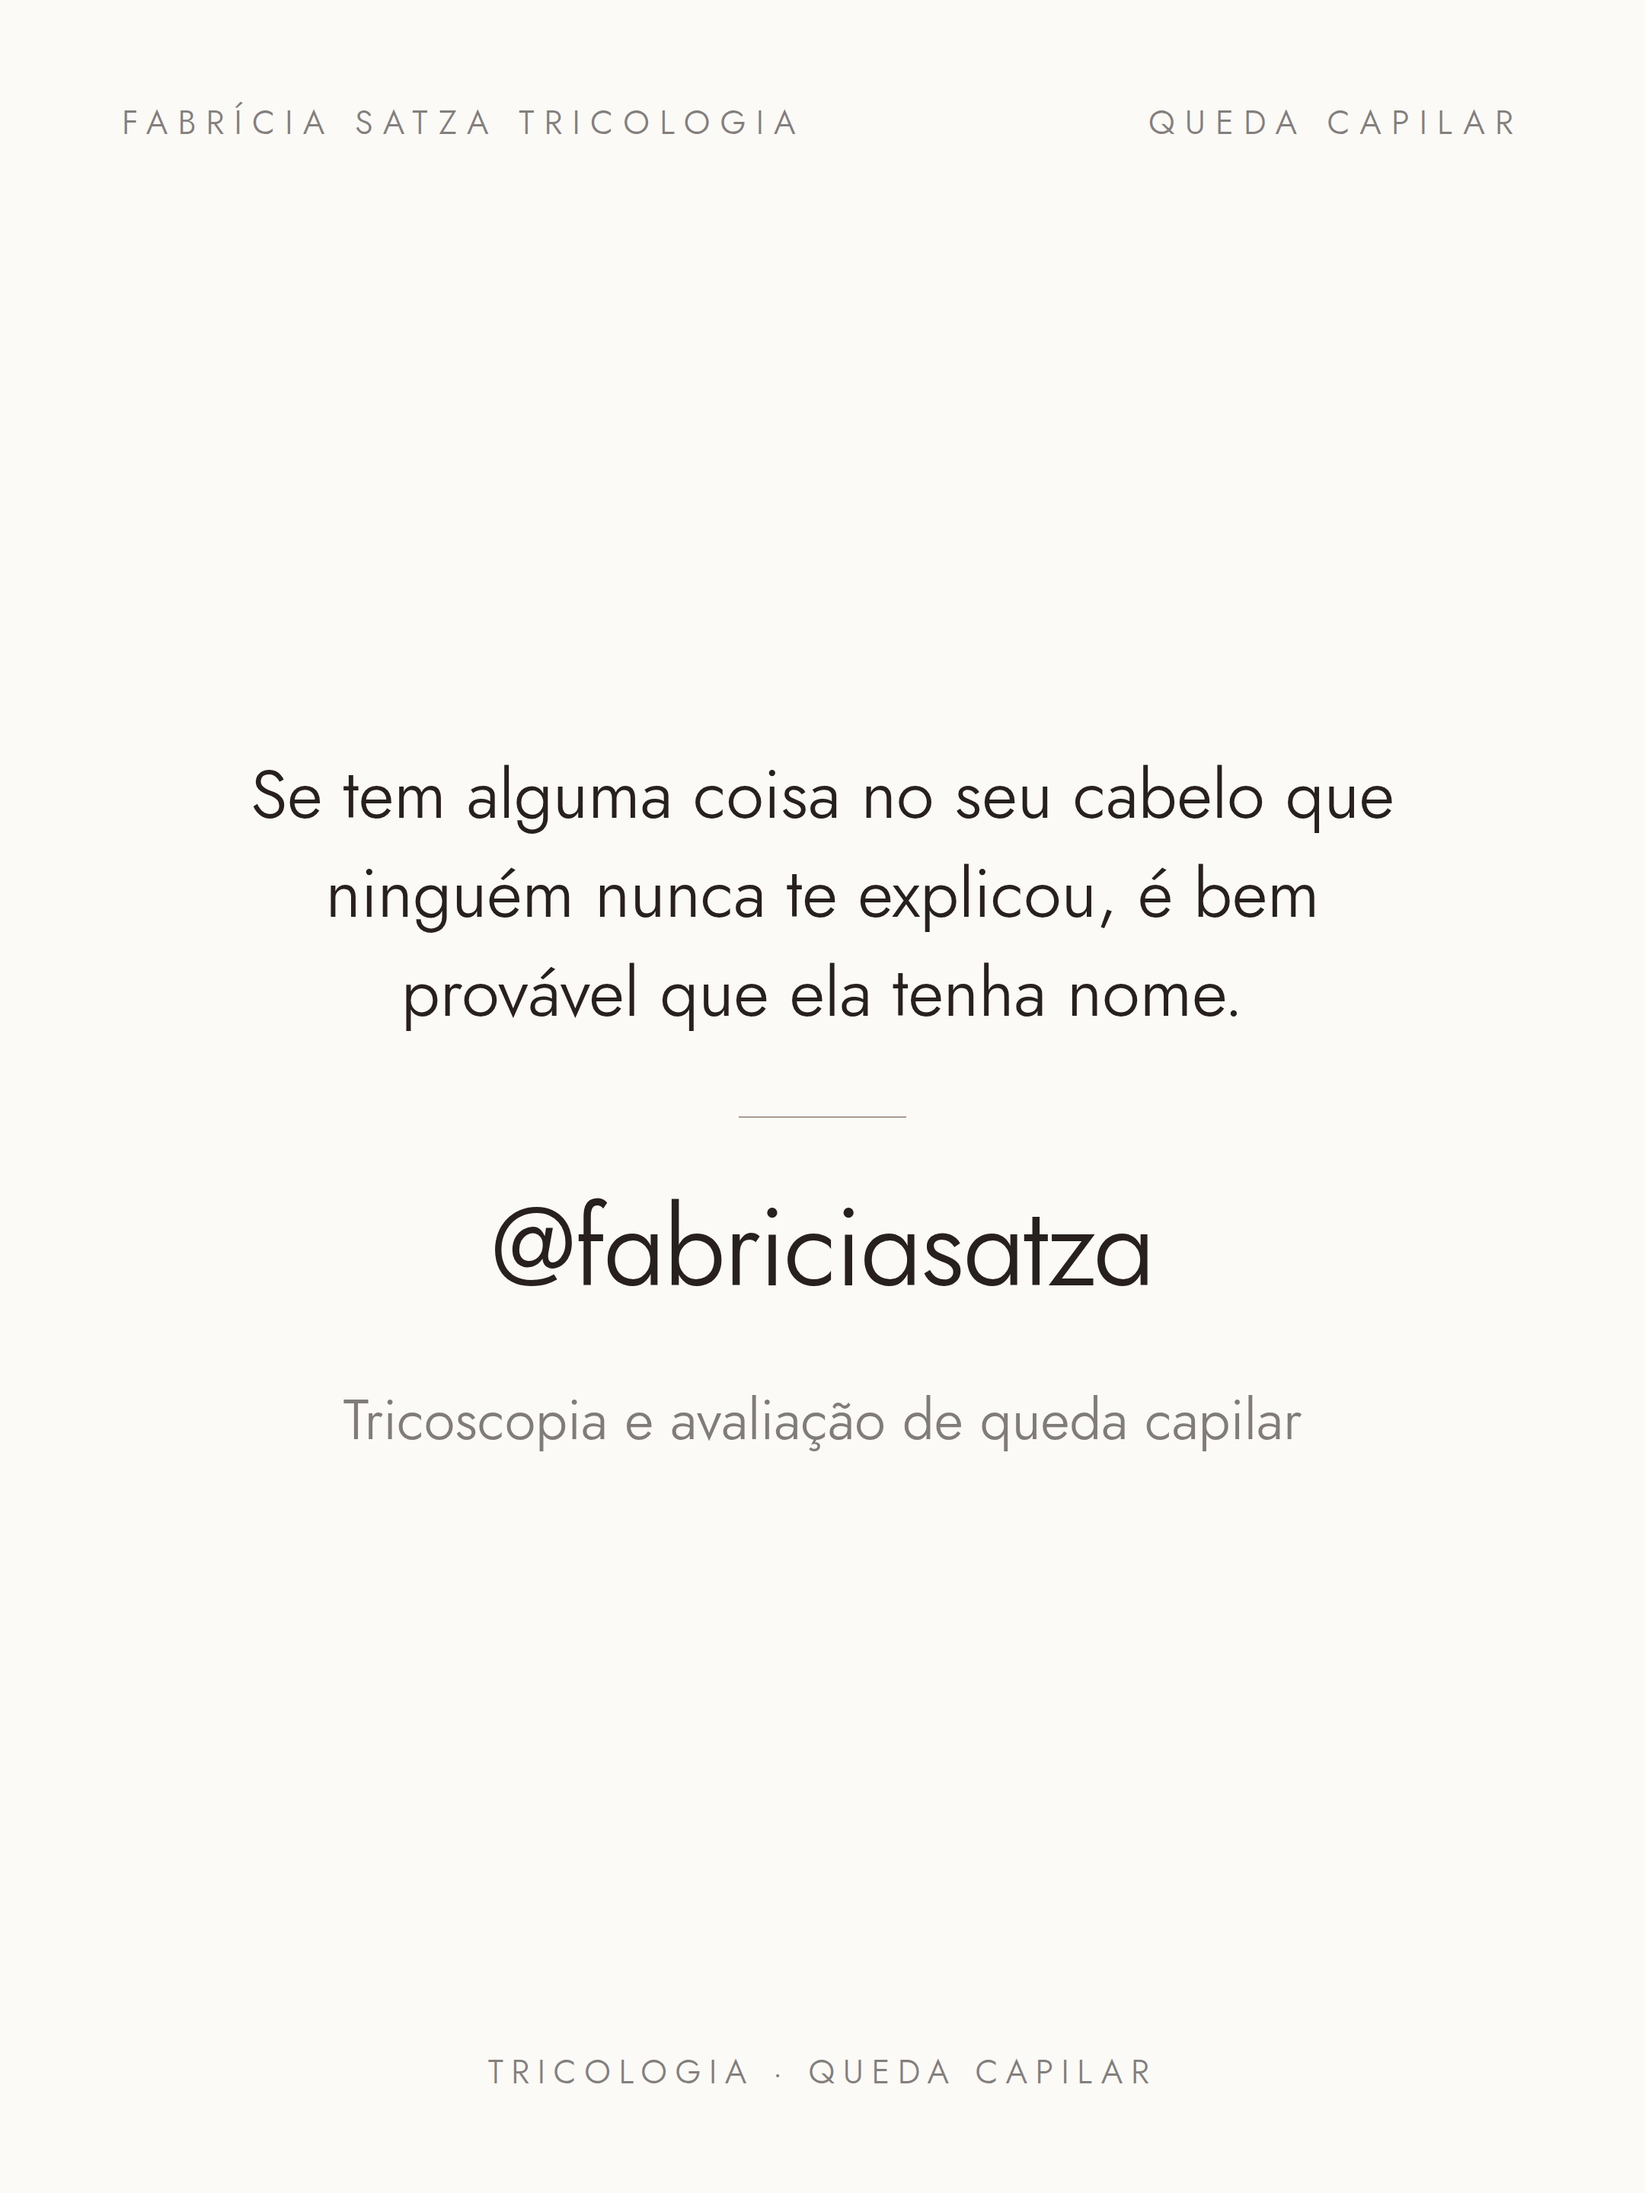
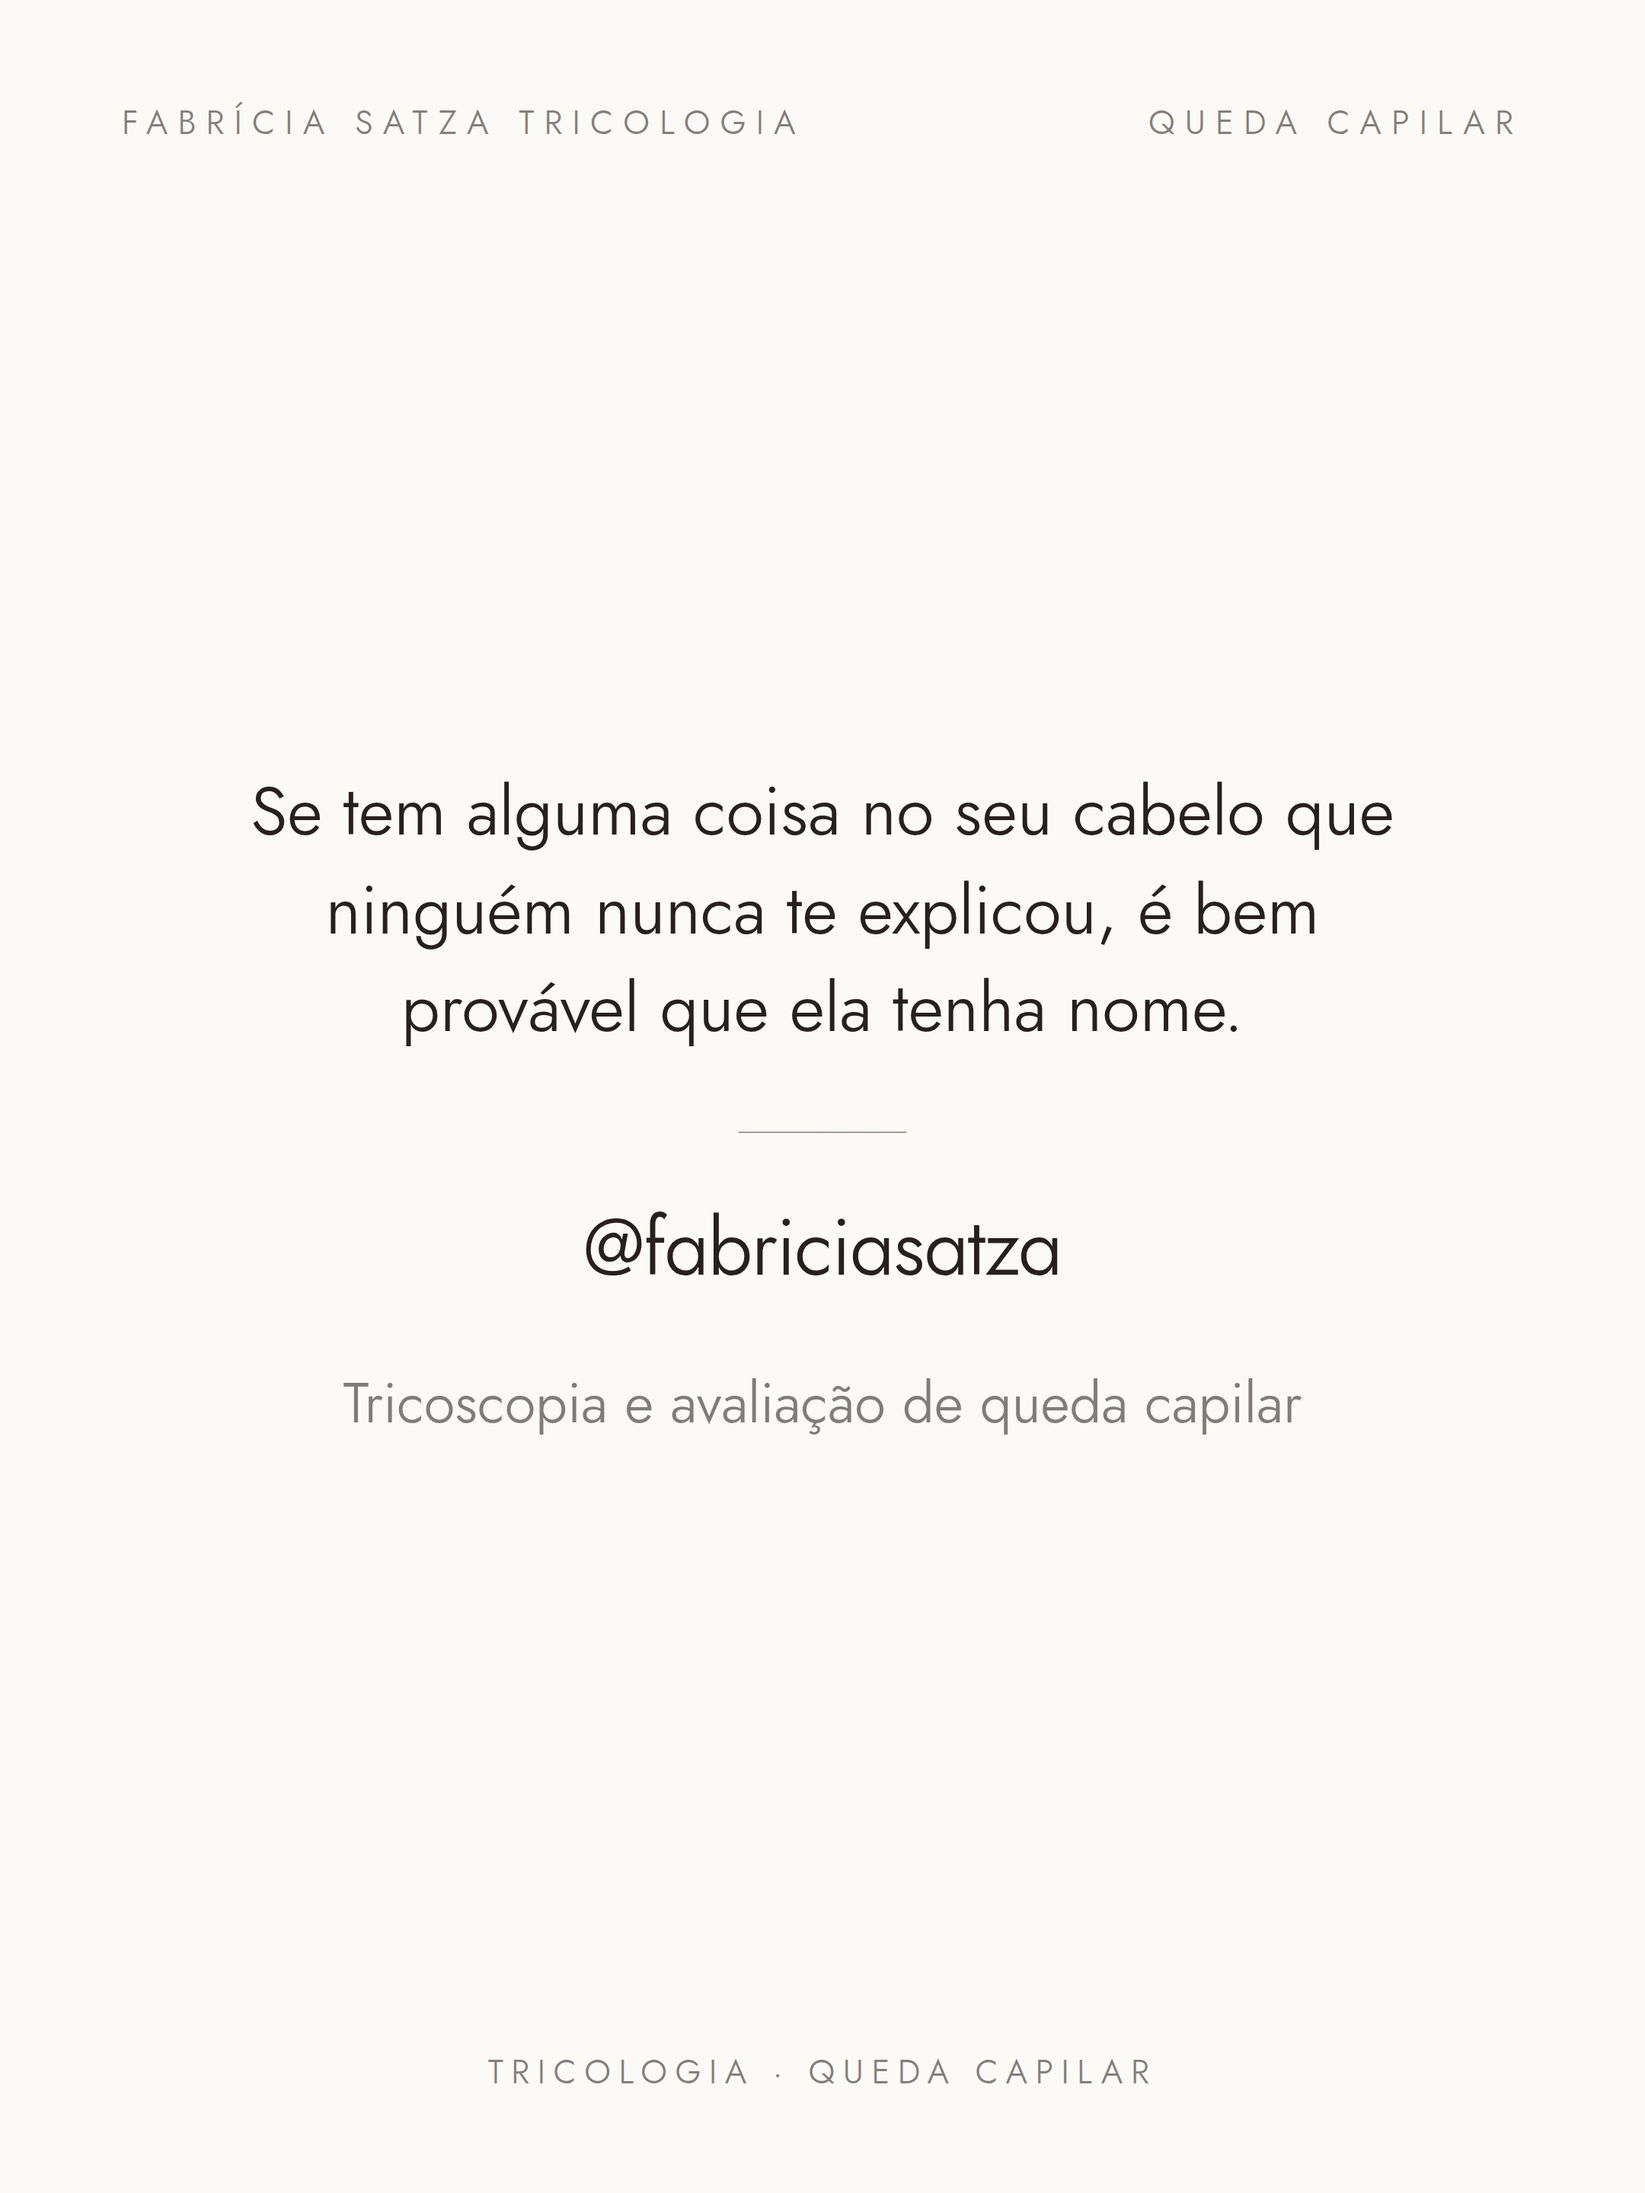
Volta o slide 02 e o slide 04, e registra a permissao permanente
Ela recusou dois dos seis ajustes: mantem as duas caixas brancas no slide de
tricoscopia e a hierarquia antiga da lista. Ficam os outros quatro — o ponto
final da capa, a virada em 66px, o vao do quadro e o arroba menor.

Registra na skill e no cofre a permissao permanente de propor melhoria sem
esperar ser pedido: mandar antes e depois com o motivo, medir quando der,
uma folha por slide, e voltar o que ela recusar sem insistir.

Claude-Session: https://claude.ai/code/session_01DL9VyhWUWZtPxmDSzgTccC

Changed region(s): [[0.1551, 0.3438, 0.8375, 0.4688], [0.2171, 0.625, 0.8065, 0.6562], [0.3102, 0.5312, 0.7134, 0.5938]]

diff --git a/carrossel-desver.html b/carrossel-desver.html
@@ -364,7 +364,7 @@ em,i,.destaque{font-style:normal;color:var(--terracota-esc)}
   <div class="cab"><span>Fabrícia Satza Tricologia</span><span>Queda capilar</span></div>
   <div class="corpo">
     <div class="rotulo">Na avaliação</div>
-    <div class="subtitulo" style="font-size:60px">Hoje eu olho um couro cabeludo e já quero saber:</div>
+    <div class="subtitulo">Hoje eu olho um couro cabeludo e já quero saber:</div>
     <div class="lista">
       <div class="item"><div class="item-n">01</div><div class="item-t">Esse fio sempre foi assim?</div></div>
       <div class="item"><div class="item-n">02</div><div class="item-t">Essa vermelhidão é frequente?</div></div>
@@ -392,7 +392,8 @@ em,i,.destaque{font-style:normal;color:var(--terracota-esc)}
   <div class="veu" style="background:linear-gradient(to bottom,rgba(0,0,0,.70) 0%,rgba(0,0,0,.28) 20%,rgba(0,0,0,.12) 48%,rgba(0,0,0,.52) 100%)"></div>
   <div class="cab"><span>Fabrícia Satza Tricologia</span><span>Queda capilar</span></div>
   <div class="corpo" style="gap:26px">
-    <div class="titulo" style="font-size:54px"><span class="caixa caixa-sombra">E é isso que eu gosto na tricoscopia. Ela me faz olhar para detalhes que, sem aumento, provavelmente passariam despercebidos.</span></div>
+    <div class="titulo" style="font-size:66px"><span class="caixa caixa-sombra">E é isso que eu gosto na tricoscopia.</span></div>
+    <div class="texto"><span class="caixa">Ela me faz olhar para detalhes que, sem aumento, provavelmente passariam despercebidos.</span></div>
   </div>
   <div class="rod"><span>@fabriciasatza</span><span class="segue">&#8594;</span></div>
 </section>

diff --git a/.claude/skills/fabricia-satza-tricologia/SKILL.md b/.claude/skills/fabricia-satza-tricologia/SKILL.md
@@ -269,6 +269,26 @@ reencodar, para não gastar uma geração de qualidade. Se algum dia você gerar
 imagem por outro caminho, passe pela mesma função antes de entregar: peça que
 publica em nome dela não deve carregar rastro de ferramenta nenhuma.
 
+## Propor melhoria sem esperar ser pedido
+
+Ela deu permissão permanente: **sempre que você achar que alguma coisa fica
+melhor de outro jeito, mande o antes e o depois e explique o porquê.** Não
+espere ela pedir e não mude por conta própria — ela decide, e às vezes decide
+contra, o que é o ponto.
+
+Como funciona, do jeito que já deu certo:
+
+- **Liste as mudanças com o motivo de cada uma**, em ordem de impacto, e diga
+  em quais você tem convicção e quais são gosto. Ela usa isso para separar o
+  que discutir do que só aprovar.
+- **Meça quando der.** "O vão do quadro era 585px, 40,6% da peça" convence e
+  se verifica; "ficou desequilibrado" não. Números vêm do render, não do CSS.
+- **Uma folha por slide**, antes à esquerda e depois à direita, com o que
+  mudou escrito em cima. Comparar seis slides numa folha só não deixa ver.
+- **Volte o que ela recusar, sem insistir.** Já aconteceu duas vezes na peça
+  do "desver": ela manteve as duas caixas do slide de tricoscopia e a
+  hierarquia antiga da lista. As duas escolhas dela eram defensáveis.
+
 ## Conferir antes de entregar
 
 Renderize e **olhe as imagens**. Boa parte dos defeitos só aparece renderizado:
